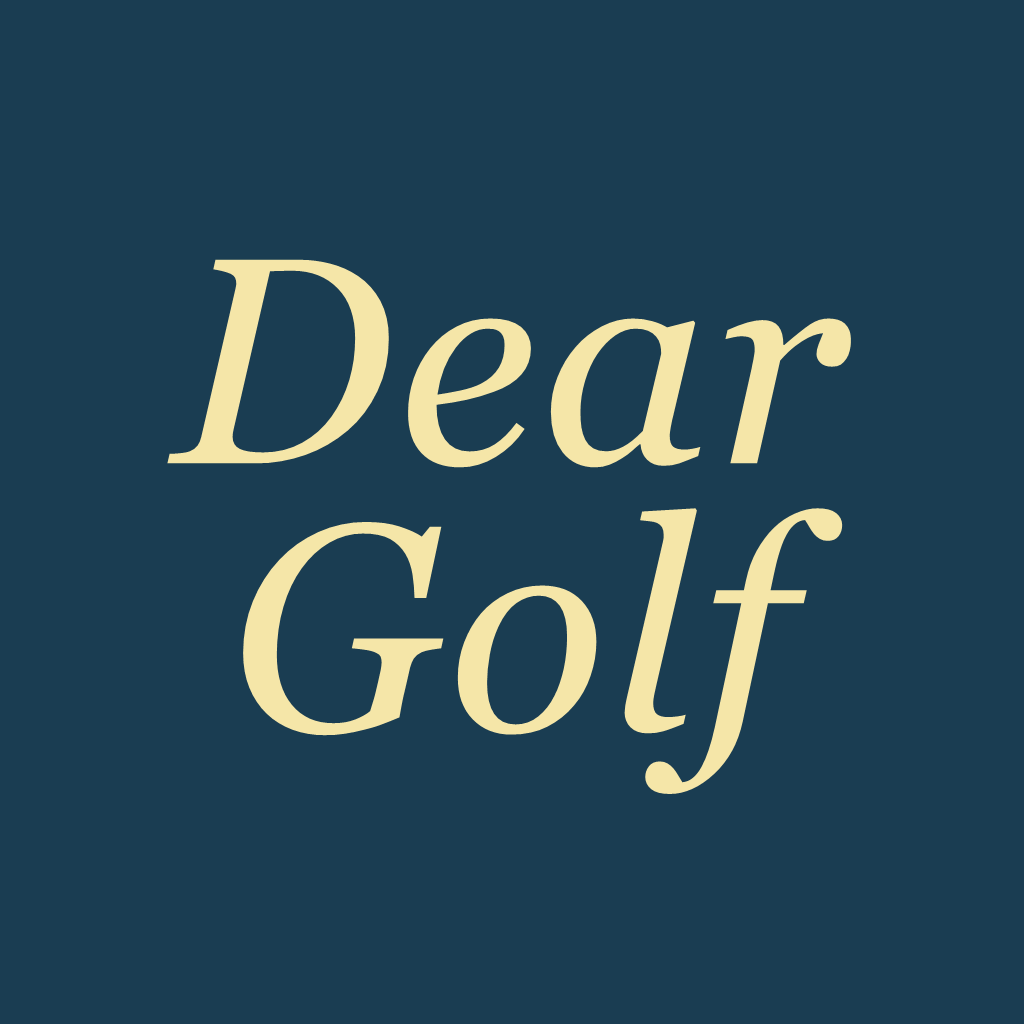
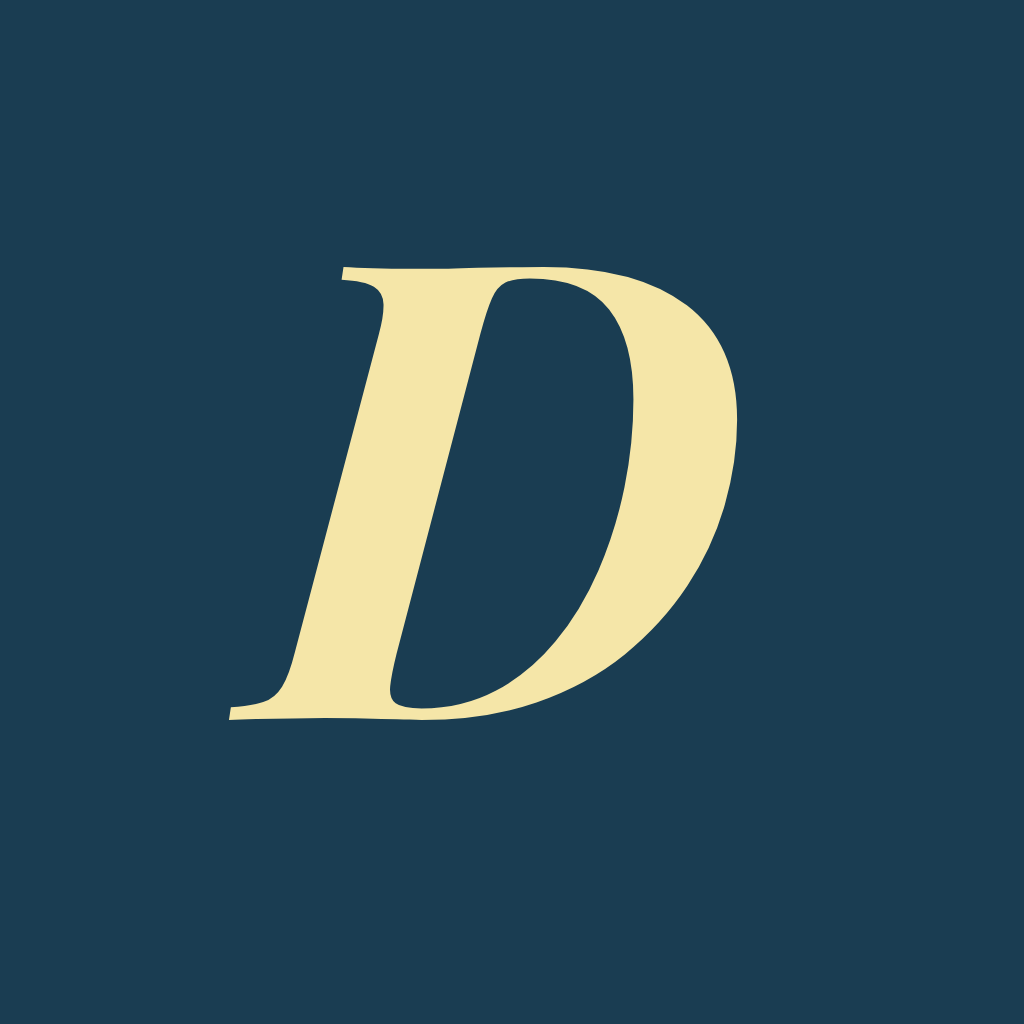
앱 아이콘 모노그램 D(Playfair 이탤릭·버터/남색) + 홈화면 이름 '디어골프' — ★네이티브, 다음 스토어 빌드에 실림
너나픽 방식(단색 바탕+요소 하나) 채택. 안드 adaptive는 원형 안전영역용으로 D 축소. version은 빌드 직전에 올린다(OTA 런타임 함정).

Changed region(s): [[0.1562, 0.25, 0.8438, 0.7812]]

diff --git a/app.config.js b/app.config.js
@@ -7,7 +7,7 @@ try { require('dotenv').config(); } catch (e) {}
 
 module.exports = {
   expo: {
-    name: 'Dear Golf',
+    name: '디어골프',   // 홈화면 아이콘 라벨 한글화(2026-09-23) — ★네이티브: 아이콘(icon·adaptive-icon 모노그램 D)과 함께 다음 스토어 빌드에 실림. version은 빌드 직전에 올릴 것(미리 올리면 OTA가 새 런타임을 겨냥해 아무에게도 안 감)
     slug: 'dear-golf',
     scheme: 'deargolf',
     version: '1.1.1',
